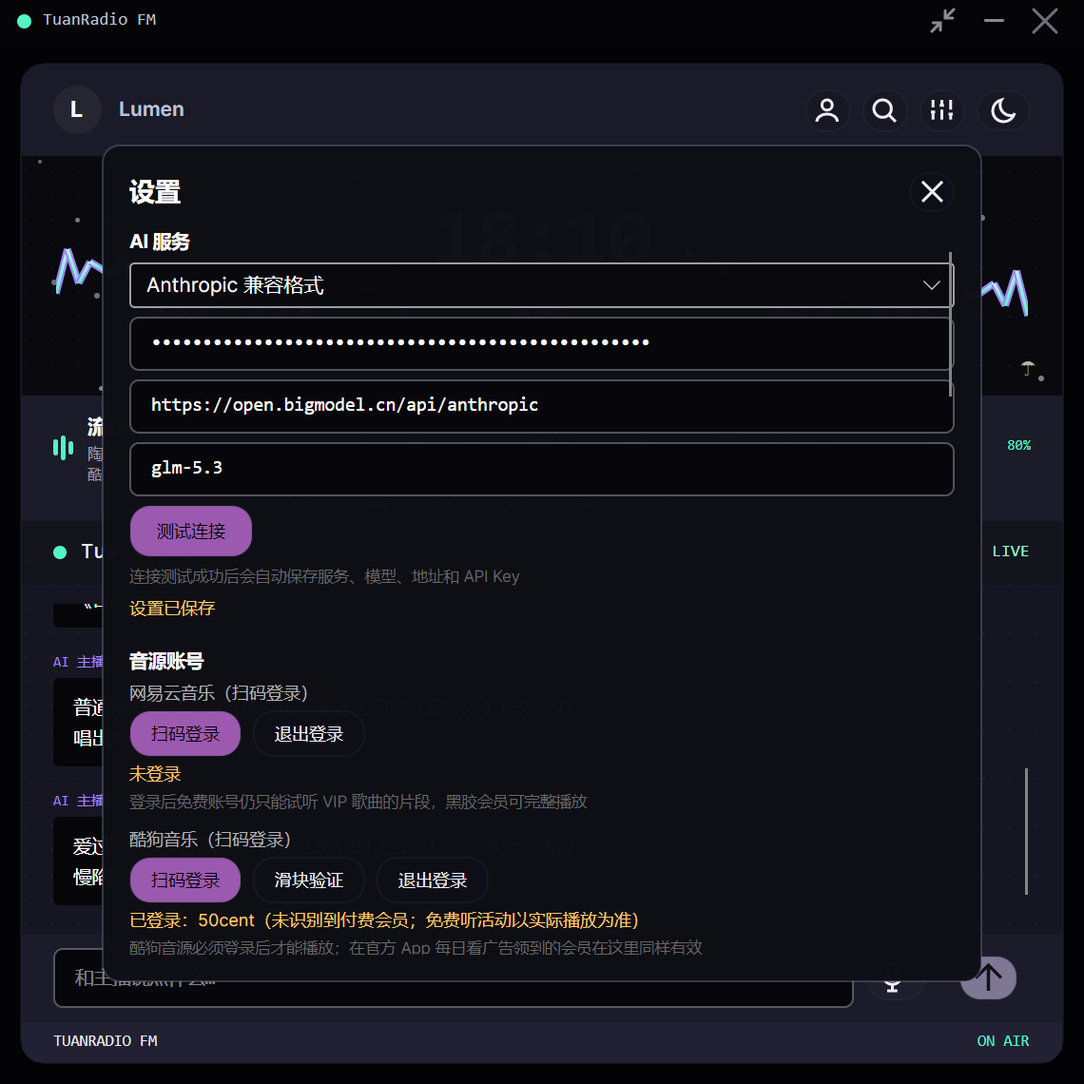
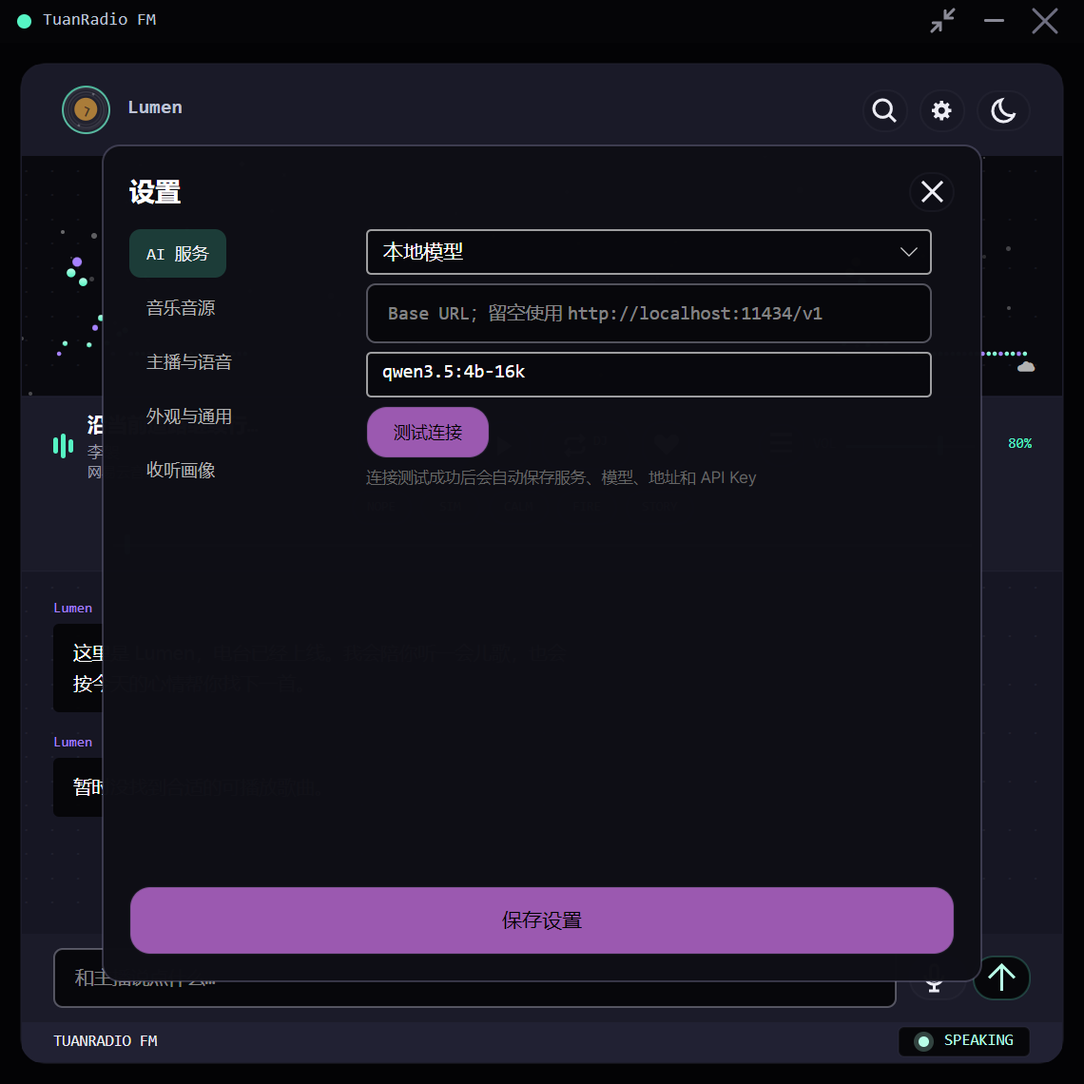
docs: 更新 README 界面导览并重制全套实机截图
- 同步最新界面与架构：补充黑胶唱片徽章、调谐发丝进度条、设置页 5 导航分区及 v1.0.1 自动更新说明。
- 全量重制实机截图：淘汰旧版圆点滑条与弹窗，重新抓取主界面、歌词、新版设置面板与简洁模式 5 张高清截图。
- 沉淀自动化脚本：新增 tools/shot/update-shots.ps1，支持基于 PrintWindow 与 AutomationId 一键自动抓图。

diff --git a/README.md b/README.md
@@ -1,6 +1,6 @@
 # TuanRadio
 
-TuanRadio 是一个 Windows 桌面 AI 电台播放器：复古电台界面、AI DJ 对话和串场、Edge TTS 播报、多音源搜索、节目单推荐、收藏歌单、歌词逐行同步、星空/频谱视觉反馈。
+TuanRadio 是一个基于 .NET 10 与 Avalonia 构建的 Windows 桌面 AI 电台播放器：复古电台界面、AI DJ 对话与串场、Edge TTS 零成本播报、离线 Whisper 语音点歌、多音源搜索自愈、节目单智能推荐、长期收听画像、逐行同步歌词、真实硬件回环频谱以及无感知应用内自动更新。
 
 ## 截图
 
@@ -8,140 +8,173 @@ TuanRadio 是一个 Windows 桌面 AI 电台播放器：复古电台界面、AI 
 | --- | --- |
 | ![时钟舞台](docs/screenshots/main-stage.png) | ![歌词模式](docs/screenshots/main-lyrics.png) |
 
-*左：中央时钟 + 两侧实时频谱，DJ 播报时主播徽章辉光随播报音量呼吸；右：点击中栏在时钟与歌词间切换，逐行同步滚动，两侧频谱常驻。*
+*左：中央大字号复古时钟 + 两侧真实硬件回环频谱，DJ 播报时主播徽章辉光随真实音量呼吸；右：点击中栏无缝在时钟与逐行歌词间平滑切换（记忆偏好），两侧动态频谱常驻。*
 
-| 设置：AI 服务、语言与语音 | 设置：音源账号与音源治理 |
+| 设置：AI 服务与模型配置 | 设置：音源账号与音源治理 |
 | --- | --- |
-| ![设置上半](docs/screenshots/settings-top.png) | ![设置下半](docs/screenshots/settings-bottom.png) |
+| ![设置：AI 服务](docs/screenshots/settings-top.png) | ![设置：音源与曲库](docs/screenshots/settings-bottom.png) |
 
 ![简洁播放模式](docs/screenshots/compact-mode.png)
 
-*简洁播放模式：标题栏一键收缩为两行紧凑卡，行 1 为单行动态歌词、无词时退回曲目信息，迷你频谱样式与主界面实时同步（点击循环），可选窗口置顶。*
+*简洁播放模式（Compact Mode）：标题栏一键收缩为两行紧凑卡，行 1 为单行动态歌词、无词时平滑退回曲目信息，迷你频谱样式与主界面实时同步（点击循环），可选窗口置顶。*
+
+---
 
 ## 界面导览
 
-主界面从上到下分为四个区域：
+### 主界面架构
 
-- **品牌头**：主播徽章与名称（AI DJ 说话时徽章辉光随 TTS 真实音量呼吸、主播名点亮）、切换主播、打开搜索、打开设置、切换明暗主题。
-- **时钟舞台**：中央为时钟/歌词面板（点击切换，偏好记忆），两侧频谱条点击循环 4 种样式（柱状/镜像/波形/粒子）；右下角天气指示器悬停显示详情。
-- **播放甲板**：曲目信息与音源·音质品级徽标（如 `网易云音乐 · 高清`，实际编码与码率悬停可见，以 LibVLC 实际解析为准）、播放控制与进度、音量、电台模式开关、收藏当前歌曲（同时作为"喜欢"信号记入长期口味画像，电台据此越来越懂你）、反馈行（不喜欢/再来类似/换安静一点/换热闹一点/歌曲故事 STORY）。
-- **聊天区与状态栏**：与 AI DJ 文字对话或按住麦克风语音点歌；状态栏由统一电台状态机驱动（空闲/策划中/搜索中/播报中/播放中/异常）。
+主界面从上到下分为四个核心区域：
 
-设置页按分组组织，覆盖全部可配置项：
+- **品牌头（Brand Header）**：
+  - **主播身份**：黑胶唱片徽章与主播名。AI DJ 说话时徽章辉光随 Edge TTS 真实输出音量呼吸起伏、主播名点亮；点击徽章可快速切换主播角色。
+  - **功能按钮簇**：全局曲库与多源搜索按钮（弹出搜索抽屉）、设置按钮、明暗主题即时切换按钮。
+  - **窗口控制**：除标准最小化、最大化、关闭外，内置**一键收缩至简洁播放模式按钮**。
+- **时钟舞台（Clock Stage & Lyrics）**：
+  - **中央主屏**：大字号复古时钟显示（时:分:秒），鼠标轻点即可在**时钟舞台**与**逐行同步滚动歌词**间平滑切换，自动记忆用户偏好。
+  - **两侧动态频谱**：接入 Windows WASAPI 硬件回环采集的 1024 点真实 FFT 频谱，直接点击频谱条可循环切换 4 种视觉效果（柱状 Bar / 镜像 Mirror / 波形 Wave / 粒子 Particle）。
+  - **环境指示器**：右下角常驻基于 Open-Meteo 的天气指示器，显示实时温度与天气图标，悬停 ToolTip 展开湿度、风速与天气详情。
+- **播放甲板（Player Deck）**：
+  - **曲目与真声音质**：显示歌曲标题、歌手；展示**音源与音质品级徽标**（如 `网易云音乐 · 高清` / `酷狗音乐 · 标准` / `无损`），悬停 ToolTip 展示以 LibVLC 底层解码在播流为准的实际编码格式（MP3/FLAC/AAC）、真实码率、采样率与声道；遇到试听片段显式展示 `试听` 徽标。
+  - **播放控制**：上一首、播放/暂停、下一首、循环模式切换（单曲循环/列表循环/随机循环）、红心收藏（同时作为强喜好信号沉淀进长期口味画像）。
+  - **右侧音量区**：曲库/播放列表抽屉开关；**复古收音机调谐针音量滑条**（同位显影机制：静止发丝暗显、悬停自动展开高亮）及精准百分比。
+  - **即时反馈行（Feedback Row）**：
+    - `NOPE`：不喜欢并跳过当前曲目（记入长期画像 Dislike 避坑黑名单）；
+    - `SIM`：再来类似曲目；
+    - `CALM`：换安静柔和一点的风格；
+    - `FIRE`：换热烈有活力的风格；
+    - `STORY`：歌曲故事（AI DJ 现曲创作背景与趣闻讲述，并经 Edge TTS 播报）。
+  - **进度轨道**：**无缝轨道补线与绿调谐指针发丝线进度条**（静止态 0.8 透明度连续发丝线、悬停/拖动时全亮展开，两侧时间文本淡入淡出，消除断口缺口）。
+- **聊天交互区与状态栏（Chat & Status Bar）**：
+  - **AI DJ 对话**：与当前主播文字交互、点歌或倾诉心情。
+  - **语音点歌**：**按住麦克风离线语音点歌**（本地 Whisper 模型推理 + 绑定 LLM 拼音/同音纠错，自动归一化为歌名触发多源搜索）。
+  - **广播状态栏**：由统一电台状态机驱动，实时呈现广播生命周期指示灯（`ON AIR`、`CONNECTED`、`IDLE`、`PLANNING`、`SEARCHING`、`SPEAKING`、`PLAYING` 等）。
 
-| 分组 | 可配置项 |
-| --- | --- |
-| AI 服务 | 接口格式（OpenAI 兼容 / Anthropic 兼容 / 本地模型）、API Key、Base URL、模型名、一键连接测试；Key 仅存入系统安全存储，界面掩码显示 |
-| 音源账号 | 网易云、酷狗扫码登录（含风控滑块验证入口）、OpenSubsonic 服务器与传输音质、Audius 可选 API Key、yt-dlp 浏览器 Cookie |
-| 音源治理 | 逐源启停与优先级排序、全局源策略（覆盖优先/稳定优先/音质优先）、逐源连接诊断（含健康记录与熔断状态） |
-| 界面与语言 | 界面及 AI 回复语言（中文/英文）、天气城市（搜索候选点选/IP 定位，留空自动定位） |
-| 语音播报 | TTS 开关、DJ 音色、复古收音机调频音效、播报与音乐混合方式（压低音量/暂停音乐） |
-| 视觉效果 | 星空背景、频谱样式、简洁模式窗口置顶、简洁模式单行歌词 |
-| 收听画像 | 口味学习开关（本地保存）、一键清除画像 |
-| 主播设置 | 主播角色、音色、人格提示词（自定义 DJ 人设） |
+---
+
+### 设置页导航导览
+
+设置页采用清晰的左侧 5 分组导航架构，全面覆盖各项偏好配置：
+
+| 分组 | 导航项 | 详细配置内容 |
+| :--- | :--- | :--- |
+| **AI 服务** | `AI 服务` | 接口协议（OpenAI 兼容 / Anthropic 兼容 / 本地模型如 Ollama）、API Key（系统安全存储与掩码保护）、Base URL、模型名、一键连接测试与错误诊断 |
+| **音源与曲库** | `音源与曲库` | **流媒体账号**：网易云扫码登录（免登录可用免费库）、酷狗扫码登录（支持滑块风控验证）、yt-dlp 浏览器 Cookie<br>**开放与私有云**：OpenSubsonic 服务器连接与音质偏好（自动/原始/128k 省流量）、Audius 开放曲库接入<br>**本地曲库**：文件夹路径管理、曲库扫描与索引状态<br>**音源治理**：逐源启停与优先级排序、全局源策略（覆盖/稳定/音质优先）、逐源连接健康记录与熔断监控 |
+| **主播与播报** | `主播与播报` | **主播人设**：内置主播角色切换（小夏/阿星等）、音色微调、自定义人设提示词（System Prompt）<br>**语音播报**：Edge TTS 播报总开关、纯程序化 FM 调频杂音与台呼音效开关、播报与音乐混音方式（压低音乐 Ducking / 暂停音乐） |
+| **外观与通用** | `外观与通用` | **语言与地区**：界面及 AI 回复语言（中文/英文）、天气城市（搜索候选点选 / 自动 IP 定位）<br>**配色与主题**：深浅双变体 × 四套调色板（薄荷绿 / 暖琥珀 / 蒸汽波紫 / 冰蓝，全数通过 WCAG 门禁）<br>**视觉开关**：星空背景开关、频谱初始样式、简洁模式窗口置顶记忆、单行动态歌词开关<br>**版本与更新（v1.0.1 新增）**：当前版本信息与安装渠道、应用内一键检查更新、静默差分下载与重启平滑升级 |
+| **收听画像** | `收听画像` | 口味学习总开关（纯本地存储，无云端数据泄露）、生成/重新归纳口味摘要（LLM Digest）、听众性格印象（LLM Impression）、Top 喜爱歌手排行、避开/反感歌手排行、Dislike 黑名单管理（支持手动逐项解封，带 30 天半衰期衰减提示）、一键清除画像 |
+
+---
 
 ## 功能亮点
 
-- **AI DJ**：文本或按住麦克风语音点歌（Whisper 本地识别 + LLM 同音纠错）、曲目串场、SongStory 现曲讲述，全部经 Edge TTS 播报；DJ 角色（名称/声音/人设）可切换。
-- **节目单推荐**：Radio Mode 自动续播按收听意图生成节目单；长期收听画像（歌手亲和度 30 天半衰期、Dislike 黑名单、LLM 口味摘要）注入推荐与 DJ 聊天两条链路，强制探索方向防茧房。
-- **多音源搜索与播放**：本地曲库、OpenSubsonic、Audius 开箱即用，完整构建另含网易云（免登录可用）、酷狗（登录后可用）与 YouTube；候选经标题/歌手/时长/源优先级四维排重打分，播放 URL 失效或返回试听截断时跨源重匹配自愈。
-- **音质透明**：播放区显示音质品级（标准/高清/无损，如 `高清`），实际编码、码率、采样率与声道悬停可见，以 LibVLC 解析在播媒体为准、音源声明值兜底；试听流有专门徽标。
-- **歌词模式**：双源取词、按播放进度逐行滚动；时钟与歌词点击切换（偏好记忆），频谱样式点击循环，两图层共显互不打扰。
-- **复古电台氛围**：纯程序化合成的 FM 调谐音效与台呼（零外部音频资产）、真实 FFT 频谱（WASAPI 回环采集）驱动频谱与星空、深浅双变体 × 四套配色主题（薄荷绿/暖琥珀/蒸汽波紫/冰蓝，设置页即时切换）经 WCAG 对比度审计。
-- **简洁播放模式**：一键收缩为两行紧凑卡，行 1 单行动态歌词、无词时平滑退回曲目信息；窗口置顶与模式记忆可选。
-- **系统集成**：耳机/键盘媒体键直通播放控制（上一首/暂停/下一首），系统媒体浮层与锁屏面板显示封面与进度（SMTC）。
-- **状态可见**：统一电台状态机、逐源搜索状态与连接诊断、天气环境指示器（Open-Meteo）。
+- 🎙 **AI DJ 双模交互**：文字畅聊或按住麦克风离线语音点歌（Whisper 本地识别 + LLM 同音纠错）；自动曲目串场与 SongStory 现曲讲述，全部经 Edge TTS 高质量多音色播报（完全免费，零 API 账单）；主播角色（名称/声音/人设）可自由定制。
+- 📻 **复古电台拟物视听美学**：纯数学算法程序化合成调频静电杂音与台呼（零外部音频体积）、WASAPI 回环硬件采集 1024 点真实 FFT 频谱驱动星空与舞台、时钟/歌词双模无缝切换、紧凑迷你摸鱼卡片（带迷你动态歌词与独立置顶记忆）。
+- 🧠 **长期口味画像与防茧房推荐**：Radio Mode 自动续播按收听意图生成会话节目单（3~5 首候选及推荐理由）；长期收听画像（歌手亲和度 30 天半衰期、Dislike 黑名单、LLM 口味摘要与性格印象）同时注入推荐与 DJ 对话双链路，并强制引入探索方向防止茧房。
+- 🔀 **高可用多音源自愈中枢（Broker）**：本地曲库、OpenSubsonic 私有云、Audius 开放曲库开箱即用，完整构建另含网易云、酷狗与 YouTube；候选经标题/歌手/时长/源优先级四维排重打分；播放队列前瞻 3 首预检解析，播放 URL 失效或返回试听截断时自动跨源重搜自愈。
+- 💎 **真声音质透明呈现**：播放区实时显示音质品级（标准/高清/无损），实际音频编码、码率、采样率与声道悬停 ToolTip 可见，以 LibVLC 解析底层在播流为准、音源声明值兜底；试听截断流有专门徽标标记。
+- 🎨 **无障碍与多调色板**：深浅双变体 × 四套配色主题（薄荷绿/暖琥珀/蒸汽波紫/冰蓝，设置页即时切换），界面文字与图标全量通过 WCAG 2.1（文字 ≥4.5:1、图形 ≥3:1）自动化对比度门禁测试。
+- 🚀 **现代在线自动更新（Velopack）**：安装版集成 Velopack 差分升级，直连 GitHub Releases 静态 CDN（规避 REST API 速率限制），设置页内一键检查更新、下载进度感知、重启秒级升级完成。
+- 🖥 **系统深度整合**：耳机/键盘媒体键直通播放控制（上一首/暂停/下一首），系统媒体浮层与锁屏面板完整显示封面与进度（SMTC），任务栏图标启动自愈。
+
+---
 
 ## 下载与安装
 
-普通用户无需构建，从 [GitHub Releases](https://github.com/chenlianwd/TuanRadio/releases) 选择以下任一方式下载：
-- **一键安装版（推荐）**：下载 `TuanRadio-win-Setup.exe` 双击即可完成安装（无需管理员权限、自带 .NET 运行时、自动创建快捷方式，支持在「设置 → 外观与通用 → 版本与更新」中应用内检查并一键升级）。
-- **绿色免安装版**：下载 `TuanRadio-v*-win-x64.zip`，解压到任意目录，运行其中的 `AIRadio.exe` 即可。
+普通用户无需本地构建，从 [GitHub Releases](https://github.com/chenlianwd/TuanRadio/releases) 选择以下任一方式下载：
 
-- 最低系统要求：Windows 10 2004（内部版本 19041）及以上，x64。
-- 应用未签名，首次运行如遇 SmartScreen「Windows 已保护你的电脑」：点「更多信息」→「仍要运行」。
-- 首次运行按需联网下载：网易/酷狗音源所需的 Node.js 运行时（约 30MB，来自 nodejs.org，经官方 SHASUMS256 校验）；「按住说话」语音识别首次使用时下载 Whisper 模型（约 140MB，来自 huggingface.co——该域名在部分网络不可达，下载失败仅影响语音点歌，可手动获取 `ggml-base.bin` 放到 `%LOCALAPPDATA%\AIRadio\models\ggml-base.bin`）。
+- **一键安装版（推荐）**：下载 `TuanRadio-win-Setup.exe` 双击即可完成安装（无需管理员权限、自带 .NET 运行时、自动创建桌面快捷方式，支持在「设置 → 外观与通用 → 版本与更新」中应用内检查并一键静默差分升级）。
+- **绿色免安装版**：下载 `TuanRadio-v*-win-x64.zip`，解压到任意目录，直接运行其中的 `AIRadio.exe` 即可（便携版同样支持在设置页一键跳转最新 Release 下载）。
+
+> **运行环境与系统说明**：
+> - 最低系统要求：Windows 10 2004（内部版本 19041）及以上，x64。
+> - 应用未购买商用数字签名，首次运行如遇 SmartScreen「Windows 已保护你的电脑」：点击「更多信息」→「仍要运行」。
+> - 首次运行按需联网下载：网易/酷狗音源所需的 Node.js 运行时（约 30MB，来自 nodejs.org，经官方 SHASUMS256 校验）；「按住说话」语音识别首次使用时下载 Whisper 模型（约 140MB，来自 huggingface.co——该域名在部分网络不可达，下载失败仅影响语音点歌，可手动获取 `ggml-base.bin` 放到 `%LOCALAPPDATA%\AIRadio\models\ggml-base.bin`）。
+
+---
 
 ## 快速上手
 
 ### 前置要求
 
 - Windows 10/11，.NET 10 SDK
-- 播放、搜索等基础功能不依赖 LLM；AI DJ 对话、串场与节目单推荐需在设置页配置任一 LLM 提供商
-- Node.js **非必需**：完整构建自动探测 PATH 与常见安装目录，缺失时可下载便携版（按官方 SHASUMS256 校验）；也可用下面的核心构建完全跳过
+- 本地与在线播放、搜索、频谱等基础功能**不依赖 LLM**；AI DJ 对话、串场、歌曲故事与节目单意图推荐需在设置页配置任一 LLM 提供商
+- Node.js **非必需**：完整构建自动探测 PATH 与常见安装目录，缺失时可自动下载便携版（按官方 SHASUMS256 校验）；也可用核心构建完全跳过
 
-### 构建与运行
+### 构建与测试
 
 ```bash
+# 完整构建并运行
 dotnet build AIRadio.Desktop\AIRadio.Desktop.csproj -v:minimal
 dotnet run --project AIRadio.Desktop\AIRadio.Desktop.csproj
 
-# 测试
+# 运行自动化测试套件（1100+ 测试）
 dotnet test AIRadio.Desktop.Tests\AIRadio.Desktop.Tests\AIRadio.Desktop.Tests.csproj -v:minimal -p:UseSharedCompilation=false
 ```
 
-> Git Bash 下 MSBuild 属性的 `/p:` 斜杠会被 MSYS 吞掉，属性一律用 `-p:` 形式；项目路径用正斜杠。
+> **提示**：Git Bash 下 MSBuild 属性的 `/p:` 斜杠会被 MSYS 吞掉，属性一律用 `-p:` 形式；项目路径用正斜杠。
 
 ### 构建变体
 
 ```bash
-# 不含 Node/yt-dlp 音源的核心构建（设置页不显示实验性音源区块）：
+# 不含 Node/yt-dlp 音源的轻量纯净核心构建（设置页不显示实验性流媒体音源区块）：
 dotnet build AIRadio.Desktop\AIRadio.Desktop.csproj -p:TuanRadioEnableNodeProviders=false -v:minimal
 ```
 
-非标准 Node 安装位置可用 `-p:TuanRadioNodeDir=<目录>` 指定；首次完整构建联网执行 `npm ci` 安装音源代理依赖。VSCode 中 F5 会先构建再启动（`preLaunchTask` 配置随仓库共享）。
+非标准 Node 安装位置可用 `-p:TuanRadioNodeDir=<目录>` 指定；首次完整构建联网执行 `npm ci --ignore-scripts` 安装音源代理依赖。VSCode 中 F5 会先构建再启动（`preLaunchTask` 配置随仓库共享）。
 
 ### 首次配置要点
 
-- **LLM**：设置页「AI 服务」选择 OpenAI 兼容 / Anthropic 兼容 / 本地模型三种接口格式之一，填 API Key、Base URL 与模型名，支持连接测试与失败原因提示。
-- **音源**：本地曲库（文件夹索引可搜索）与 Audius（无 Key 可用）默认可用；OpenSubsonic 在设置页配置服务器与账号，凭据存入系统安全存储，可选自动/原始/128 kbps 省流量音质；网易云、酷狗需完整构建。两家登录要求不同：**酷狗必须扫码登录后才能播放**，官方 App 每日看广告领到的会员在这里同样有效；**网易云不登录即可用**——匿名身份可完整播放免费曲库，免费账号登录与匿名基本相同（VIP 歌仅返回试听片段，应用检测到试听会自动跨源换完整版），黑胶 VIP 登录后可直接取得 VIP 歌完整播放地址。酷狗风控触发时自动弹出浏览器滑块验证（约 10 分钟冷却，设置页另有手动验证入口）。
-- **数据位置**：设置、歌单、收听画像、本地曲库索引与日志均在 `%APPDATA%\AIRadio\`（日志在 `logs\airadio-*.log`，播放中断、音源超时优先从这里排查）。
+- **LLM 配置**：进入设置页「AI 服务」，选择 OpenAI 兼容 / Anthropic 兼容 / 本地模型三种接口格式之一，填入 API Key、Base URL 与模型名，支持一键连接测试与失败原因精准诊断。
+- **音源账号**：本地曲库（文件夹索引）与 Audius（无 Key 可用）默认可用；OpenSubsonic 在设置页配置服务器与账号，凭据存入系统安全存储；网易云可免登录使用免费曲库（黑胶 VIP 登录后解锁完整高码率库）；酷狗建议扫码登录使用。
+- **数据存储位置**：用户设置、本地歌单、收听画像、本地曲库索引与运行日志均保存在 `%APPDATA%\AIRadio\`（日志在 `logs\airadio-*.log`，播放异常优先从此处排查）。
+
+---
 
 ## 项目结构
 
 ```text
-AIRadio.Desktop/            宿主应用
-  Assets/                   应用图标
+AIRadio.Desktop/            宿主应用（Avalonia 11.3.9 + ReactiveUI + Velopack）
+  Assets/                   应用图标与矢量资源
   Converters/               共享 XAML Converter
-  Models/                   ChatMessage、DJProfile、推荐模型等
-  Services/                 播放、AI DJ、LLM、TTS、推荐、歌词、ASR、天气等服务
-  Services/Music/Playback/  播放队列预检（依赖 Avalonia/ReactiveUI 调度，留守宿主）
-  Themes/                   Colors.axaml 主题 token（Light/Dark）+ Palettes/ 配色主题叠加层
-  ViewModels/ Views/        ReactiveUI ViewModel 与 Avalonia 视图
-  server/ server-kugou/     网易 / 酷狗 Node.js 代理
-AIRadio.Desktop.Music/      音乐域类库（宿主单向引用，命名空间不变）
-  Models/                   Track 等模型
-  Services/Music/           Contracts（契约）、Broker（聚合）、Providers（本地/OpenSubsonic/Audius）、
-                            Adapters（实验性音源适配）、Playback（URL 安全校验/重定向复检/解析缓存）
-AIRadio.Desktop.Tests/      xUnit 测试
-tools/shot/                 README 实机截图脚本（UIA 定位 + 窗口截图 + 活性校验）
+  Models/                   ChatMessage、DJProfile、推荐数据模型等
+  Services/                 播放中枢 (AudioService)、AI DJ、LLM、Edge TTS、歌词、Whisper ASR、天气等
+  Services/Music/Playback/  播放队列预检与调度（依赖 Avalonia UI 线程）
+  Themes/                   Colors.axaml 主题 token + Palettes/ 四套调色板叠加层
+  ViewModels/ Views/        ReactiveUI ViewModel 与 Avalonia 视图（主界面/设置/迷你模式/抽屉）
+  server/ server-kugou/     网易 / 酷狗 Node.js 代理进程与补丁基线
+AIRadio.Desktop.Music/      音乐领域独立类库（宿主单向引用，命名空间保持稳定）
+  Models/                   Track、Album 等核心实体
+  Services/Music/           Contracts（抽象契约）、Broker（中枢聚合与策略编排）、
+                            Providers（本地/OpenSubsonic/Audius）、Adapters（流媒体适配）、
+                            Playback（MediaUriPolicy 安全白名单/重定向复检/解析缓存）
+AIRadio.Desktop.Tests/      xUnit 自动化测试套件（1133+ 测试用例）
+tools/                      tools/publish.ps1 自动化出包流水线、品牌图标导出脚本与实机截图工具
 ```
+
+---
 
 ## 架构与稳定性
 
-- `AudioService` 管理播放、TTS 播报与调频音效；`MusicSourceBroker` 承接多源搜索编排、逐源状态报告、跨源回退择优、连接诊断与熔断、全局源策略；业务层依赖 `IMusicSourceBroker` 接口，不对聚合器做具体类型 cast。
-- `RecommendationService` 生成节目单候选，`ListeningProfileService` 维护长期收听画像，`DJService` 负责 AI 对话与串场，`MainWindowViewModel` 组合各模块并在 Radio Mode 触发自动续播。
-- 播放 URL 进 LibVLC 前经两层校验：`MediaUriPolicy` fail-closed 校验初始地址（scheme 白名单、IPv4/IPv6 禁段、DNS 解析后复查、禁内嵌凭据），`PlaybackRedirectGuard` 在解析期逐跳复检重定向链（观察型）；用户配置的 OpenSubsonic 私有服务器只允许同源 stream 路径。
-- 播放解析结果内存缓存（重复点播/推荐直接命中，凭据变化自动清对应源）；URL 失效时依次刷新当前源、尝试替代源、再续播，避免同一试听片段循环重放。
-- LibVLC/WASAPI/NAudio 操作统一串行、释放采用有界等待；在线搜索、LLM、推荐、TTS、语音识别全链路支持超时与应用生命周期取消。
-- 播放列表与设置采用临时文件替换的原子写入；跨线程访问返回快照。
-- 供应链校验：Node.js 便携包按官方 SHASUMS256 值 fail-closed 校验，yt-dlp 固定官方 release 版本 + SHA256。
+- **服务解耦与中枢模式**：`AudioService` 集中管理 LibVLC 播放状态、TTS 语音播报插播与调频音效；`MusicSourceBroker` 承接多音源搜索编排、逐源状态监控、跨源回退择优、连接诊断与熔断；业务层依赖 `IMusicSourceBroker` 契约，与具体实现彻底解耦。
+- **推荐闭环与画像学习**：`RecommendationService` 生成会话候选节目单，`ListeningProfileService` 维护本地 30 天半衰期收听画像，`DJService` 负责上下文感知闲聊与串场，`MainWindowViewModel` 在 Radio Mode 下驱动自动续播。
+- **播放安全与纵深防御**：播放 URL 进 LibVLC 前经两层严格校验：`MediaUriPolicy`（fail-closed 校验 scheme 白名单、IPv4/IPv6 私网禁段、DNS 解析后复查、禁内嵌凭据），`PlaybackRedirectGuard` 在解析期逐跳复检重定向链；OpenSubsonic 私有服务器严格限制同源流媒体路径。
+- **解析缓存与自愈回退**：播放解析结果内存级缓存（重复点播直接命中，账号凭据变更自动清源缓存）；URL 失效或遇试听片段时依次触发当前源刷新、跨源重匹配自愈、续播回退，避免陷入试听死循环。
+- **资源管理与并发保护**：LibVLC、WASAPI 与 NAudio 操作统一串行调度、句柄释放采用严格有界等待；网络搜索、LLM 调用、TTS 生成全链路受 `CancellationToken` 与应用生命周期统一管控。
+- **持久化原子性**：本地歌单、应用设置、收听画像均采用临时文件落盘再替换的原子写入机制，跨线程读取返回不可变快照。
 
-### 相关文档
-
-- [docs/plans/ai-radio-plan.md](docs/plans/ai-radio-plan.md) — 实施计划与产品定位（历史快照）
-- [docs/plans/](docs/plans/) — 各阶段设计实录（音源架构演进、收听画像、歌词模式、Broker 拆分等）
-- [docs/history/DESIGN.md](docs/history/DESIGN.md) / [docs/history/ARCHITECTURE_REDESIGN.md](docs/history/ARCHITECTURE_REDESIGN.md) — 历史文档（早期视觉参考与架构迁移方案）
+---
 
 ## 已知限制
 
-- 外部音乐 API 和 yt-dlp 可能因上游接口、地区限制或版权状态变化失效；当前以硬超时、逐源状态、队列后三首解析预检和跨源回退降级应对。酷我、咪咕需显式设置 `AIRADIO_ENABLE_LEGACY_WEB_SOURCES=1` 才注册，且上游接口已实际失效（风控/门户劫持），仅作遗留通道保留。
-- 网易云代理固定 `NeteaseCloudMusicApi` 4.32.0，`npm audit --omit=dev` 余 7 项（1 中危、6 高危）锁死在上游依赖链（node-forge 等），升级到不兼容旧接口的版本前需单独评估；酷狗代理生产依赖审计 0 项（源码基线与本地补丁见 `server-kugou/VENDOR.md`）。
-- 音源声明的 Referer 播放请求头为尽力投递——libvlc 3 核心 HTTP 客户端不支持该选项，属上游限制；UA/Cookie 通道可靠。
-- 长期收听画像纯本地文件（`listener-profile.json`），不跨设备同步（有意不做云端）。
-- 原生音频设备异常属运行环境问题，发布前仍需执行连续播放、TTS 插播、切歌和关闭窗口的人工稳定性测试（自动化耐久测试覆盖电台 30 轮续播、真实 LibVLC 四曲连播、画像 30 会话积累等场景）。
-- 深浅双变体 × 四套配色主题经 WCAG 对比度审计（文字对 ≥4.5:1、图形 ≥3:1，含每个新主题的程序化门禁测试），后续视觉调整需保持该标准。
+- 外部流媒体音乐 API 可能因上游风控、地区限制或版权状态变动失效；当前以硬超时、逐源健康度监控、队列后 3 首预检和跨源自动自愈降级应对。酷我、咪咕接口已在上游失效，仅作环境变量开启的遗留通道保留。
+- 网易云代理固定 `NeteaseCloudMusicApi` 4.32.0，`npm audit --omit=dev` 余 7 项（1 中危、6 高危）锁死在上游依赖链；酷狗代理生产依赖审计保持 0 漏洞（源码基线见 `server-kugou/VENDOR.md`）。
+- 音源声明的 Referer 播放请求头为尽力投递——LibVLC 3 原生核心 HTTP 客户端不支持动态设置该请求头，属上游限制；UA 与 Cookie 传输通道完全可靠。
+- 长期收听画像保存在本地文件（`listener-profile.json`），暂不支持跨设备漫游同步（有意保障用户隐私，不做云端收集）。
+- 深浅双变体 × 四套配色主题经严格 WCAG 2.1 对比度审计（文字 ≥4.5:1、图形 ≥3:1，含自动化门禁测试），后续界面定制需保持该标准。
+
+---
 
 ## 许可证
 
-本项目以 GPL-3.0-only 许可证发布（见 [LICENSE](LICENSE)），Copyright (C) 2026 陈亮。随包分发的第三方组件（LibVLC、LibVLCSharp、TagLibSharp、npm 依赖等）许可声明见 [THIRD-PARTY-NOTICES.md](THIRD-PARTY-NOTICES.md)。
+本项目以 **GPL-3.0-only** 许可证发布（见 [LICENSE](LICENSE)），Copyright (C) 2026 陈亮。随包分发的第三方开源组件（LibVLC、LibVLCSharp、TagLibSharp、Velopack、npm 依赖等）许可声明与版权见 [THIRD-PARTY-NOTICES.md](THIRD-PARTY-NOTICES.md)。
